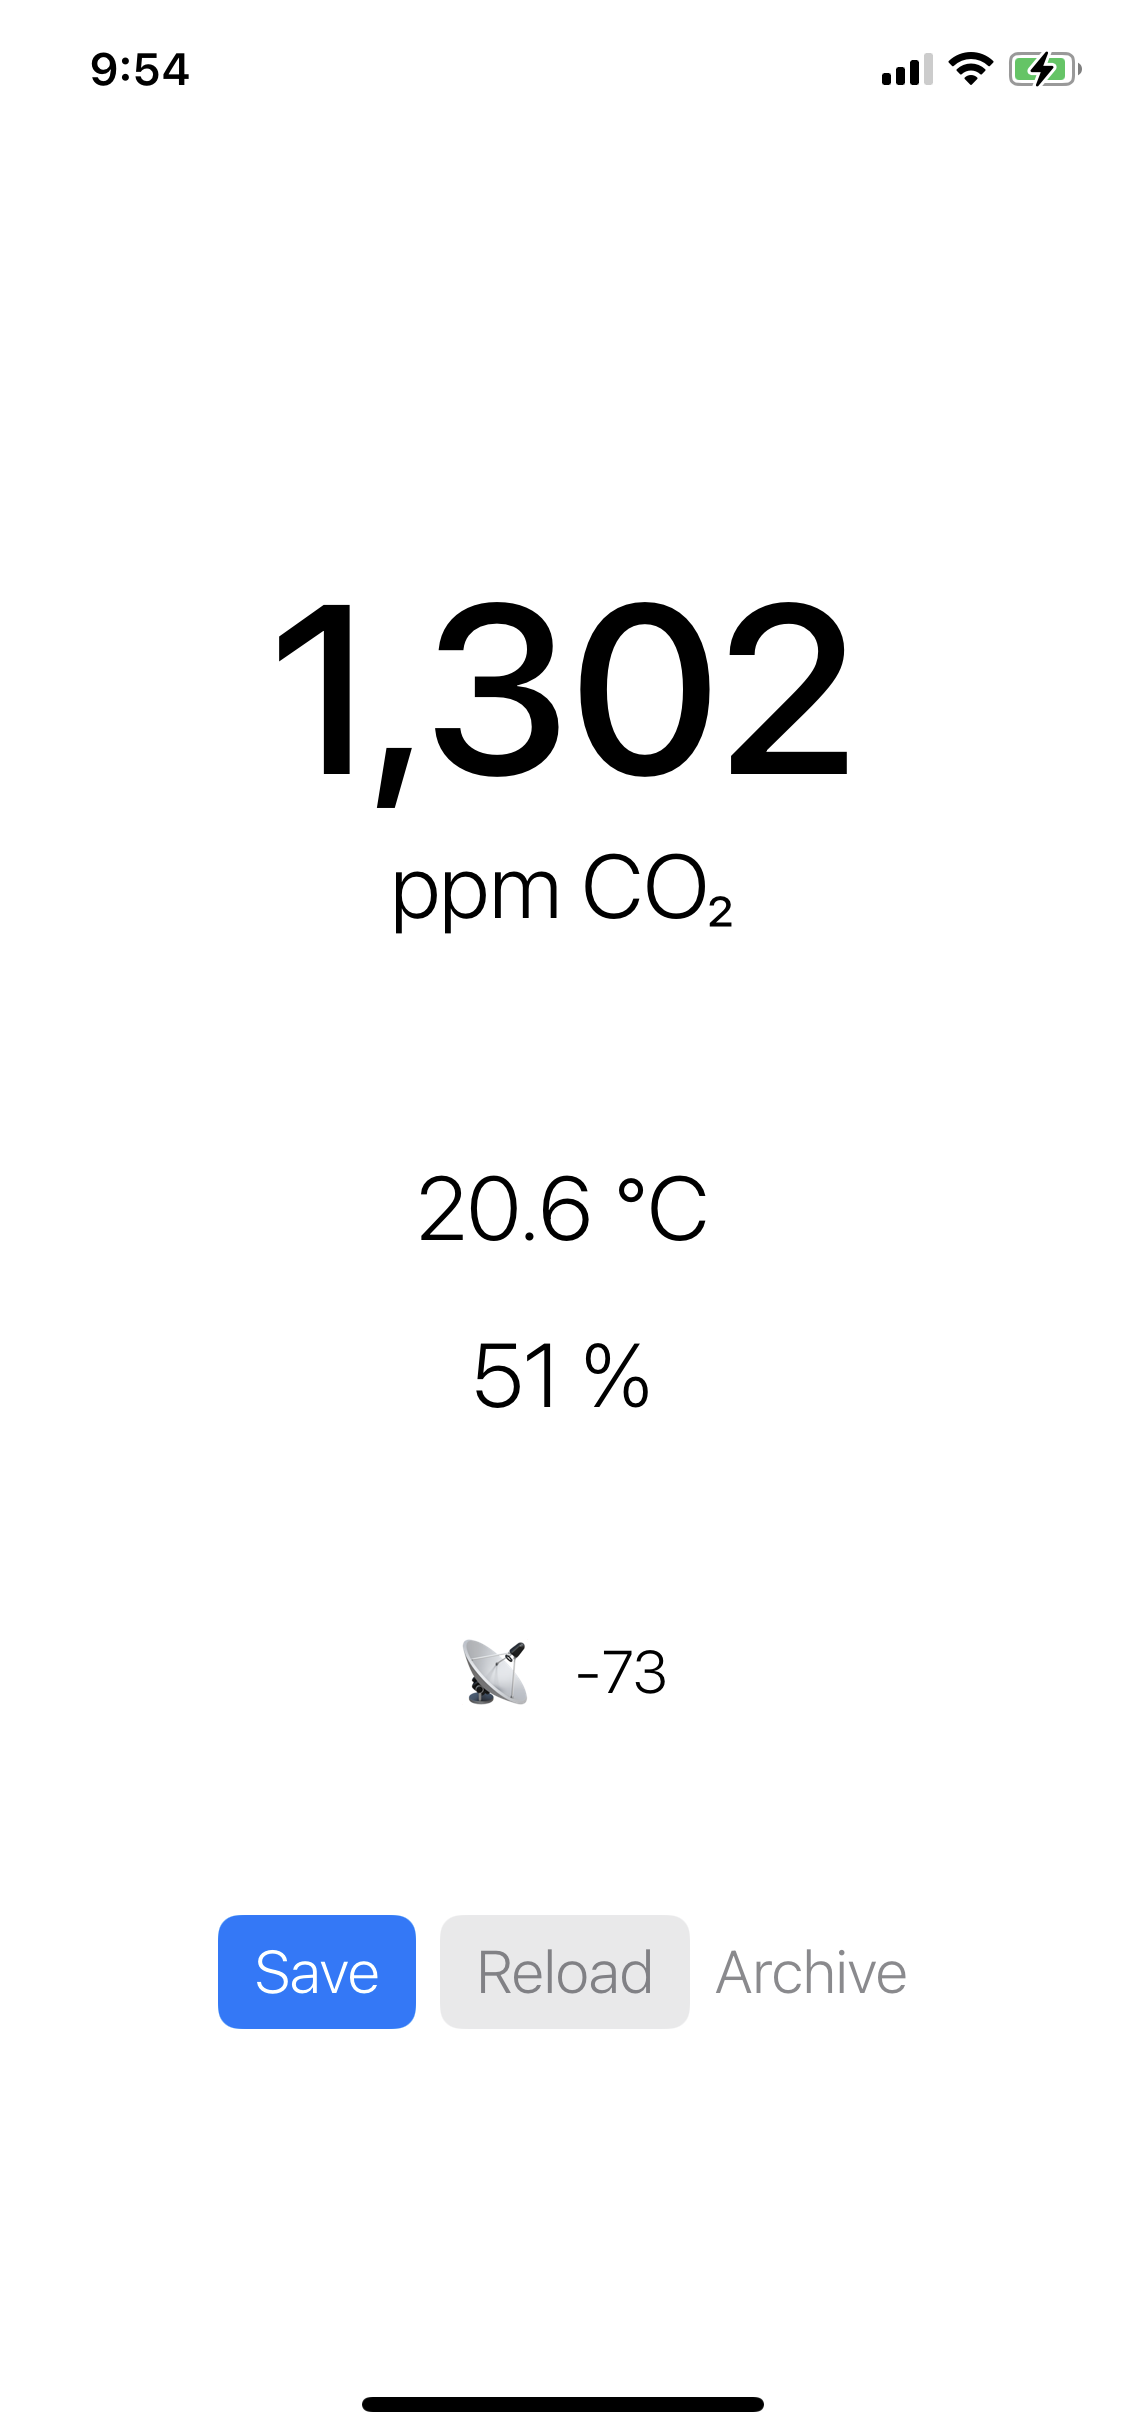
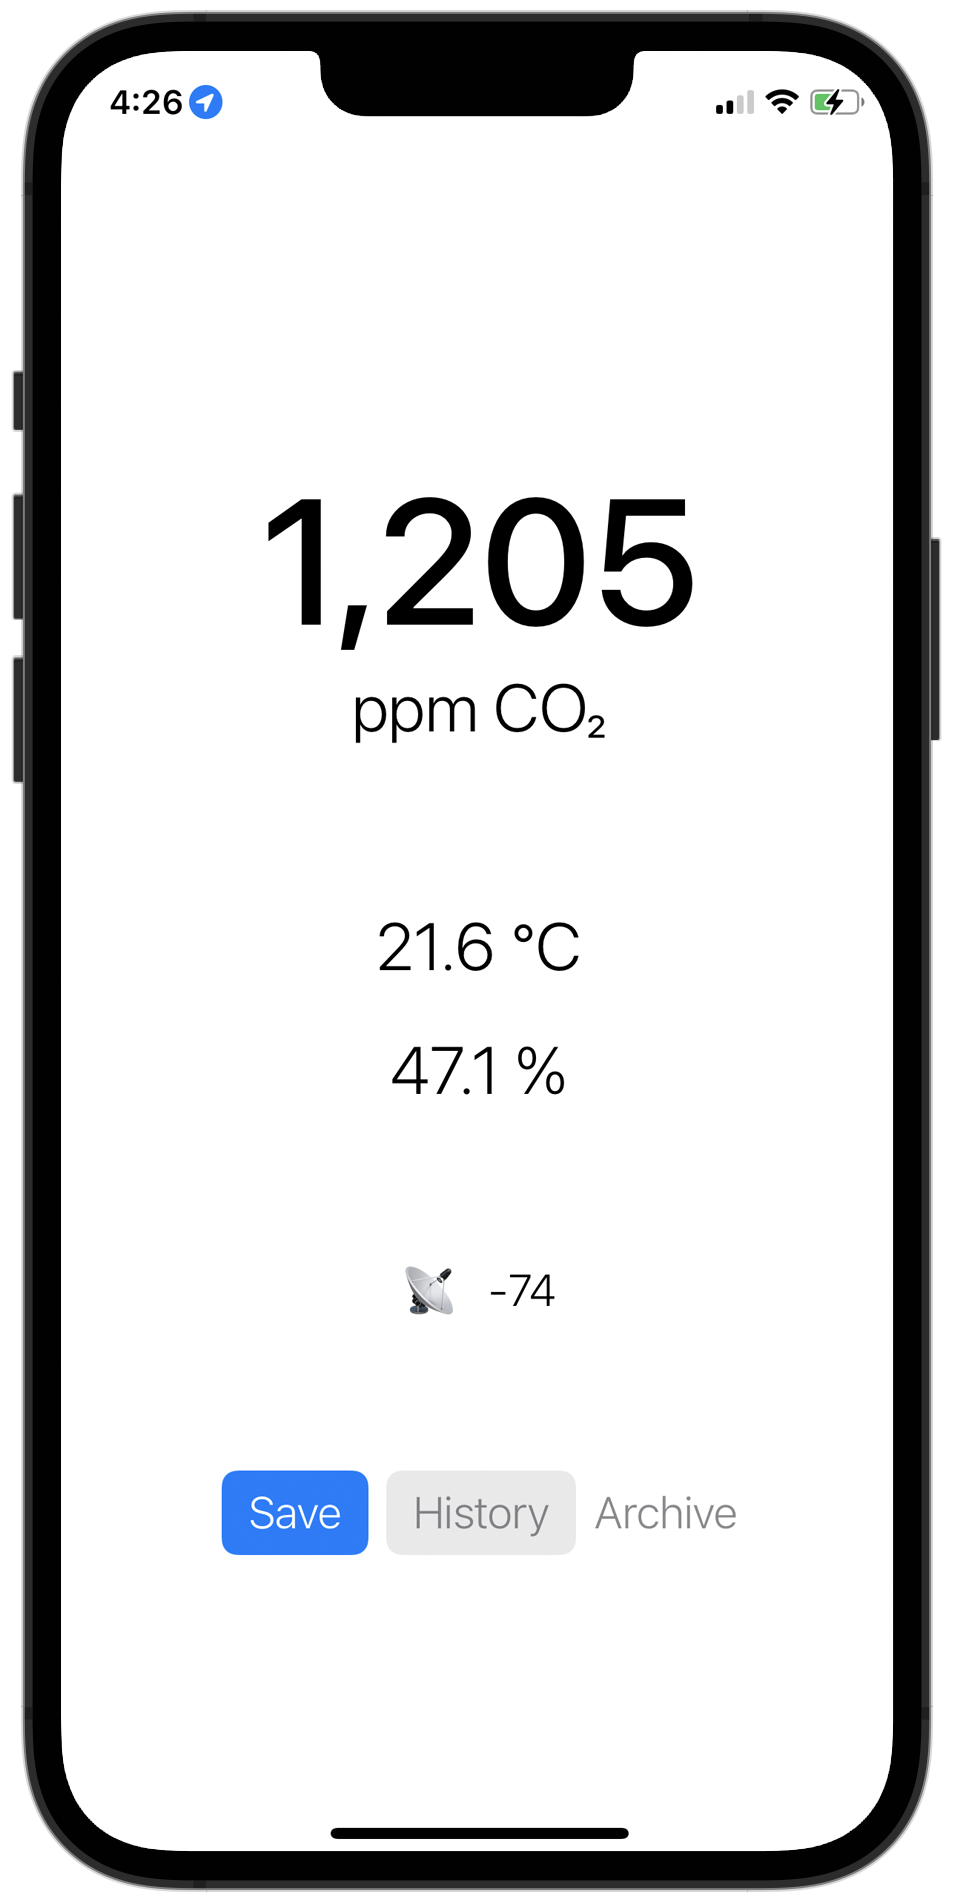
Add updated iOS screenshots

diff --git a/README.md b/README.md
@@ -2,7 +2,7 @@
 
 An iOS/macOS app to read Sensirion SCD-41 CO2 sensor readings written in SwiftUI.
 
-<img src="co2-sensor-ios.png" width="30%">
+<img src="co2-sensor-ios.png" width="30%"><img src="saved-readings-ios.png" width="30%"><img src="saved-reading-detail-ios.png" width="30%">
 
 <img src="co2-sensor-macos.png" width="30%"><img src="saved-readings.png" width="30%"><img src="saved-reading-detail.png" width="30%">
 
